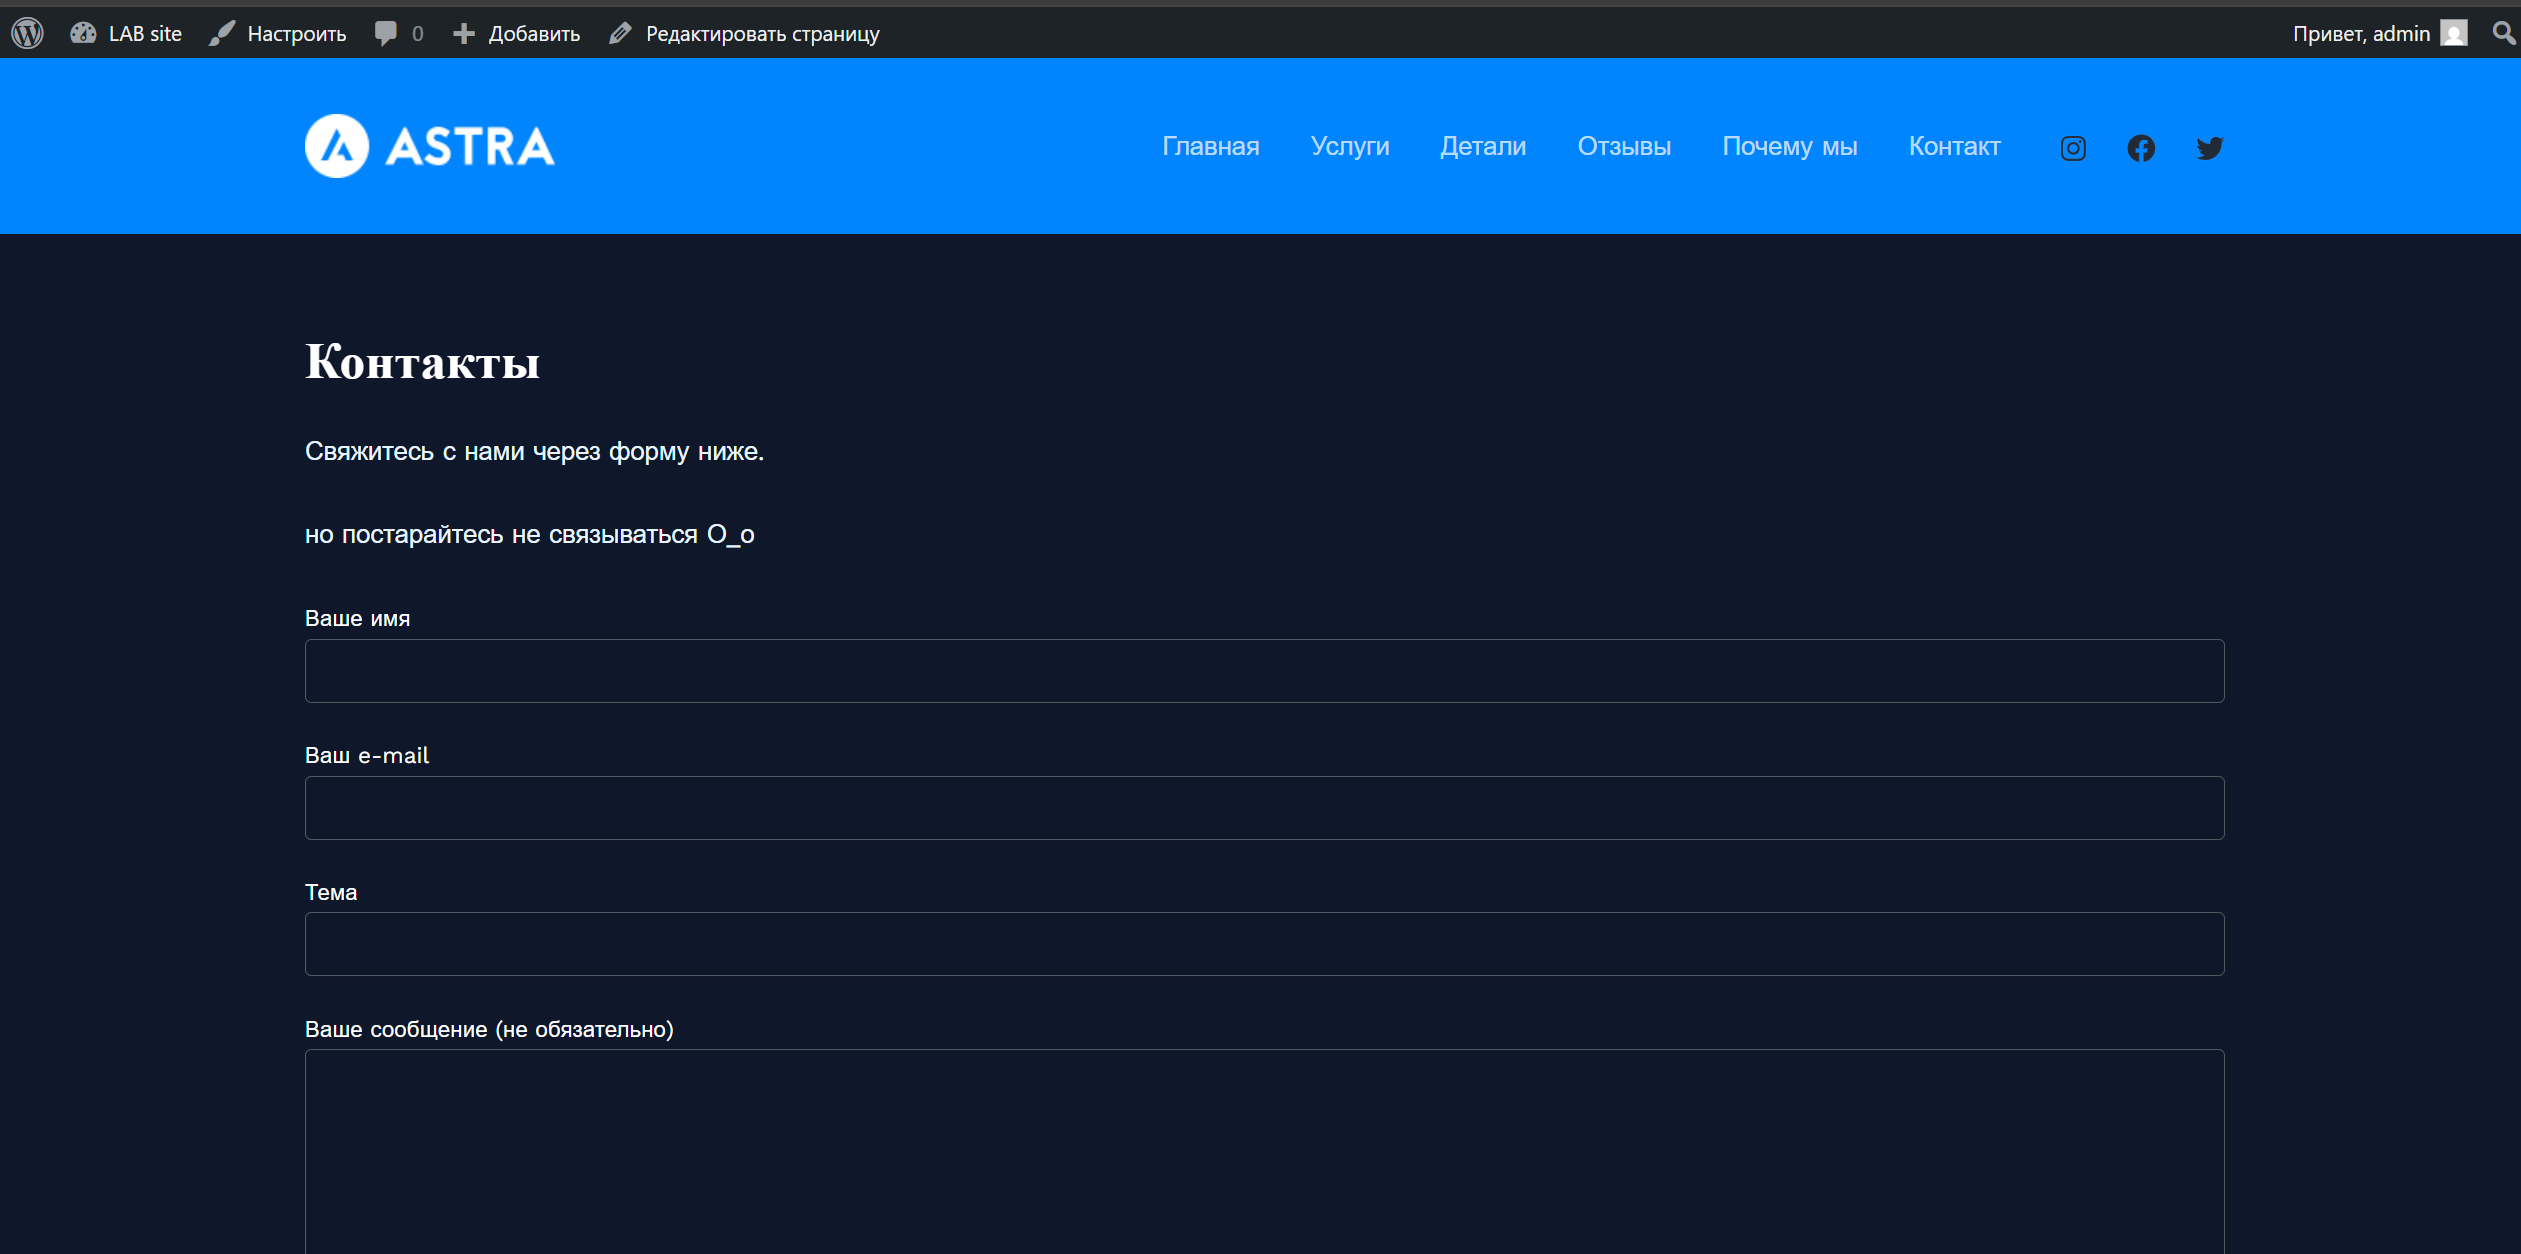
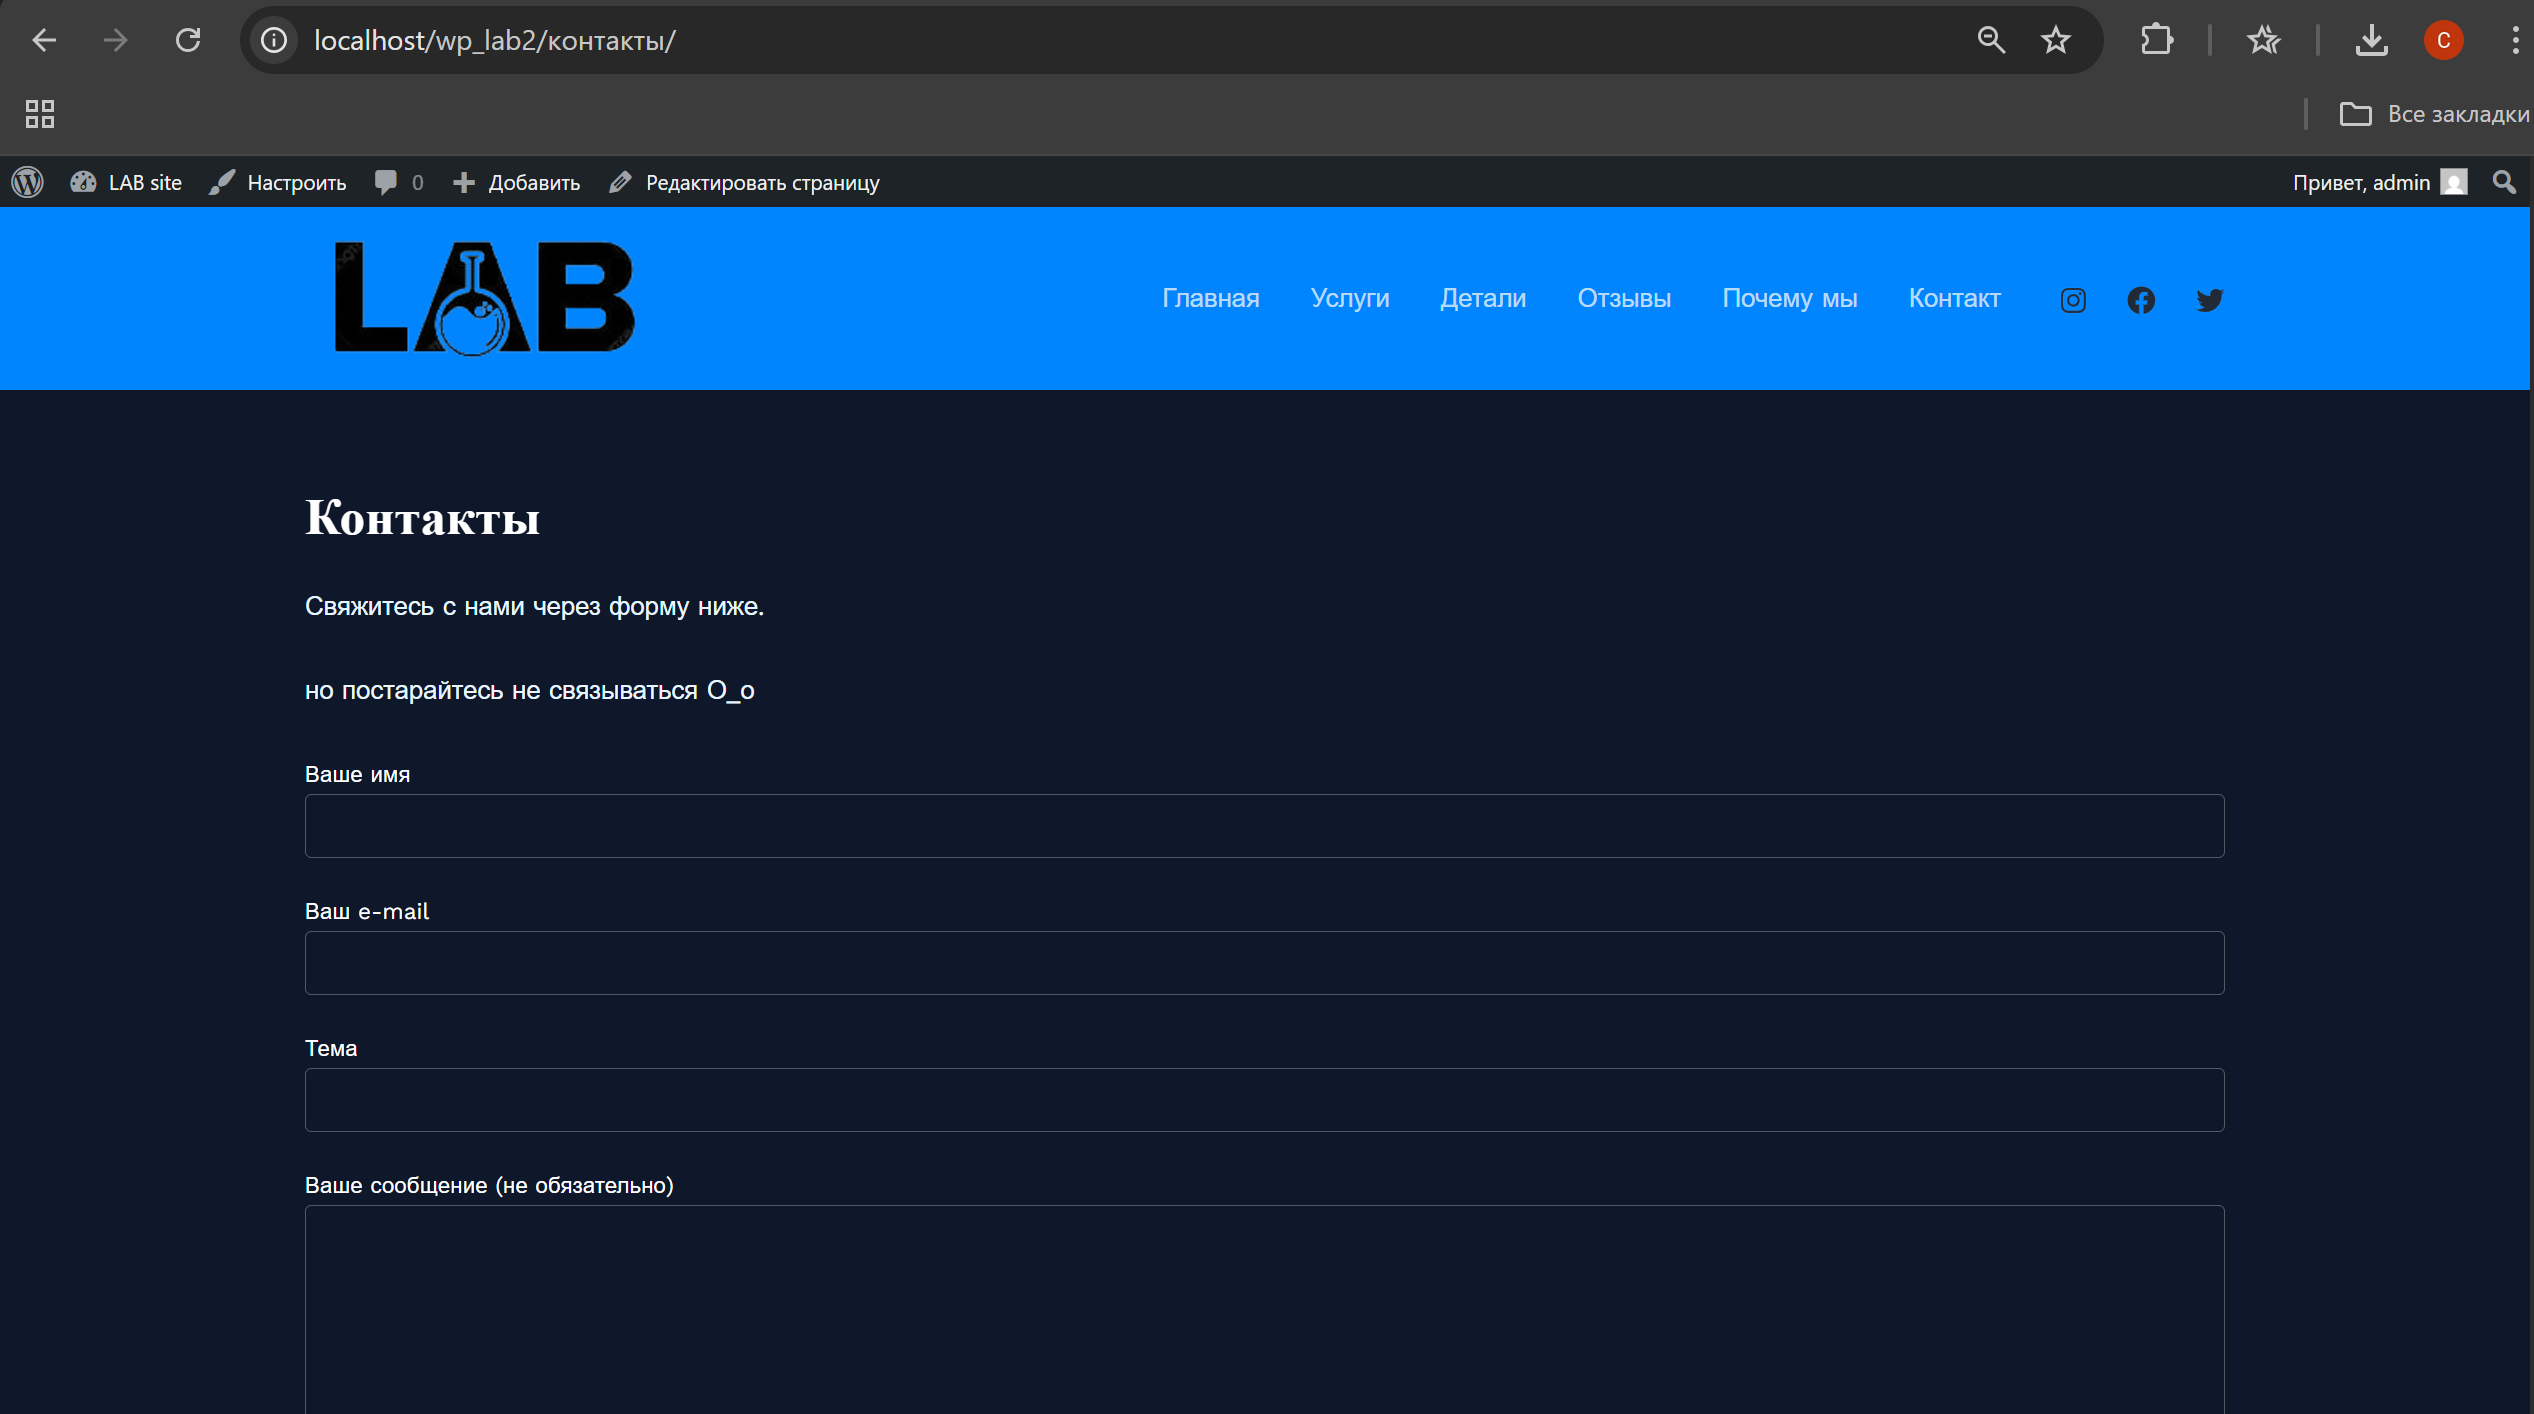
fixed some defects in lab02 CMS

diff --git a/lab02/README.md b/lab02/README.md
@@ -80,8 +80,8 @@
 4. В меню `Appearance → Customize` настроила:
    1. заголовок и логотип сайта,
 
-    ![alt text](img/image-17.png)
     ![alt text](img/image-16.png)
+    ![alt text](img/image-33.png)
    2. цветовую схему
 
     ![alt text](img/image-19.png)
@@ -98,7 +98,7 @@
 Проверила, как он работает. Добавила небольшую запись и посмотрела как она отображается.
 
 ![alt text](img/image-21.png)
-![alt text](img/image-24.png)
+![alt text](img/image-22.png)
 
    2. плагин Contact Form 7 (для добавления формы обратной связи).
 Добавила форму обратной связи
@@ -124,7 +124,7 @@
 2. Создала несколько записей в блоге с разным контентом (текст, изображения).
 3. Проверила, как отображается контент на сайте.
 
-![alt text](img/img/image-28.png)
+![alt text](img/image-28.png)
 ![alt text](img/image-31.png)
 ![alt text](img/image-29.png)
 
